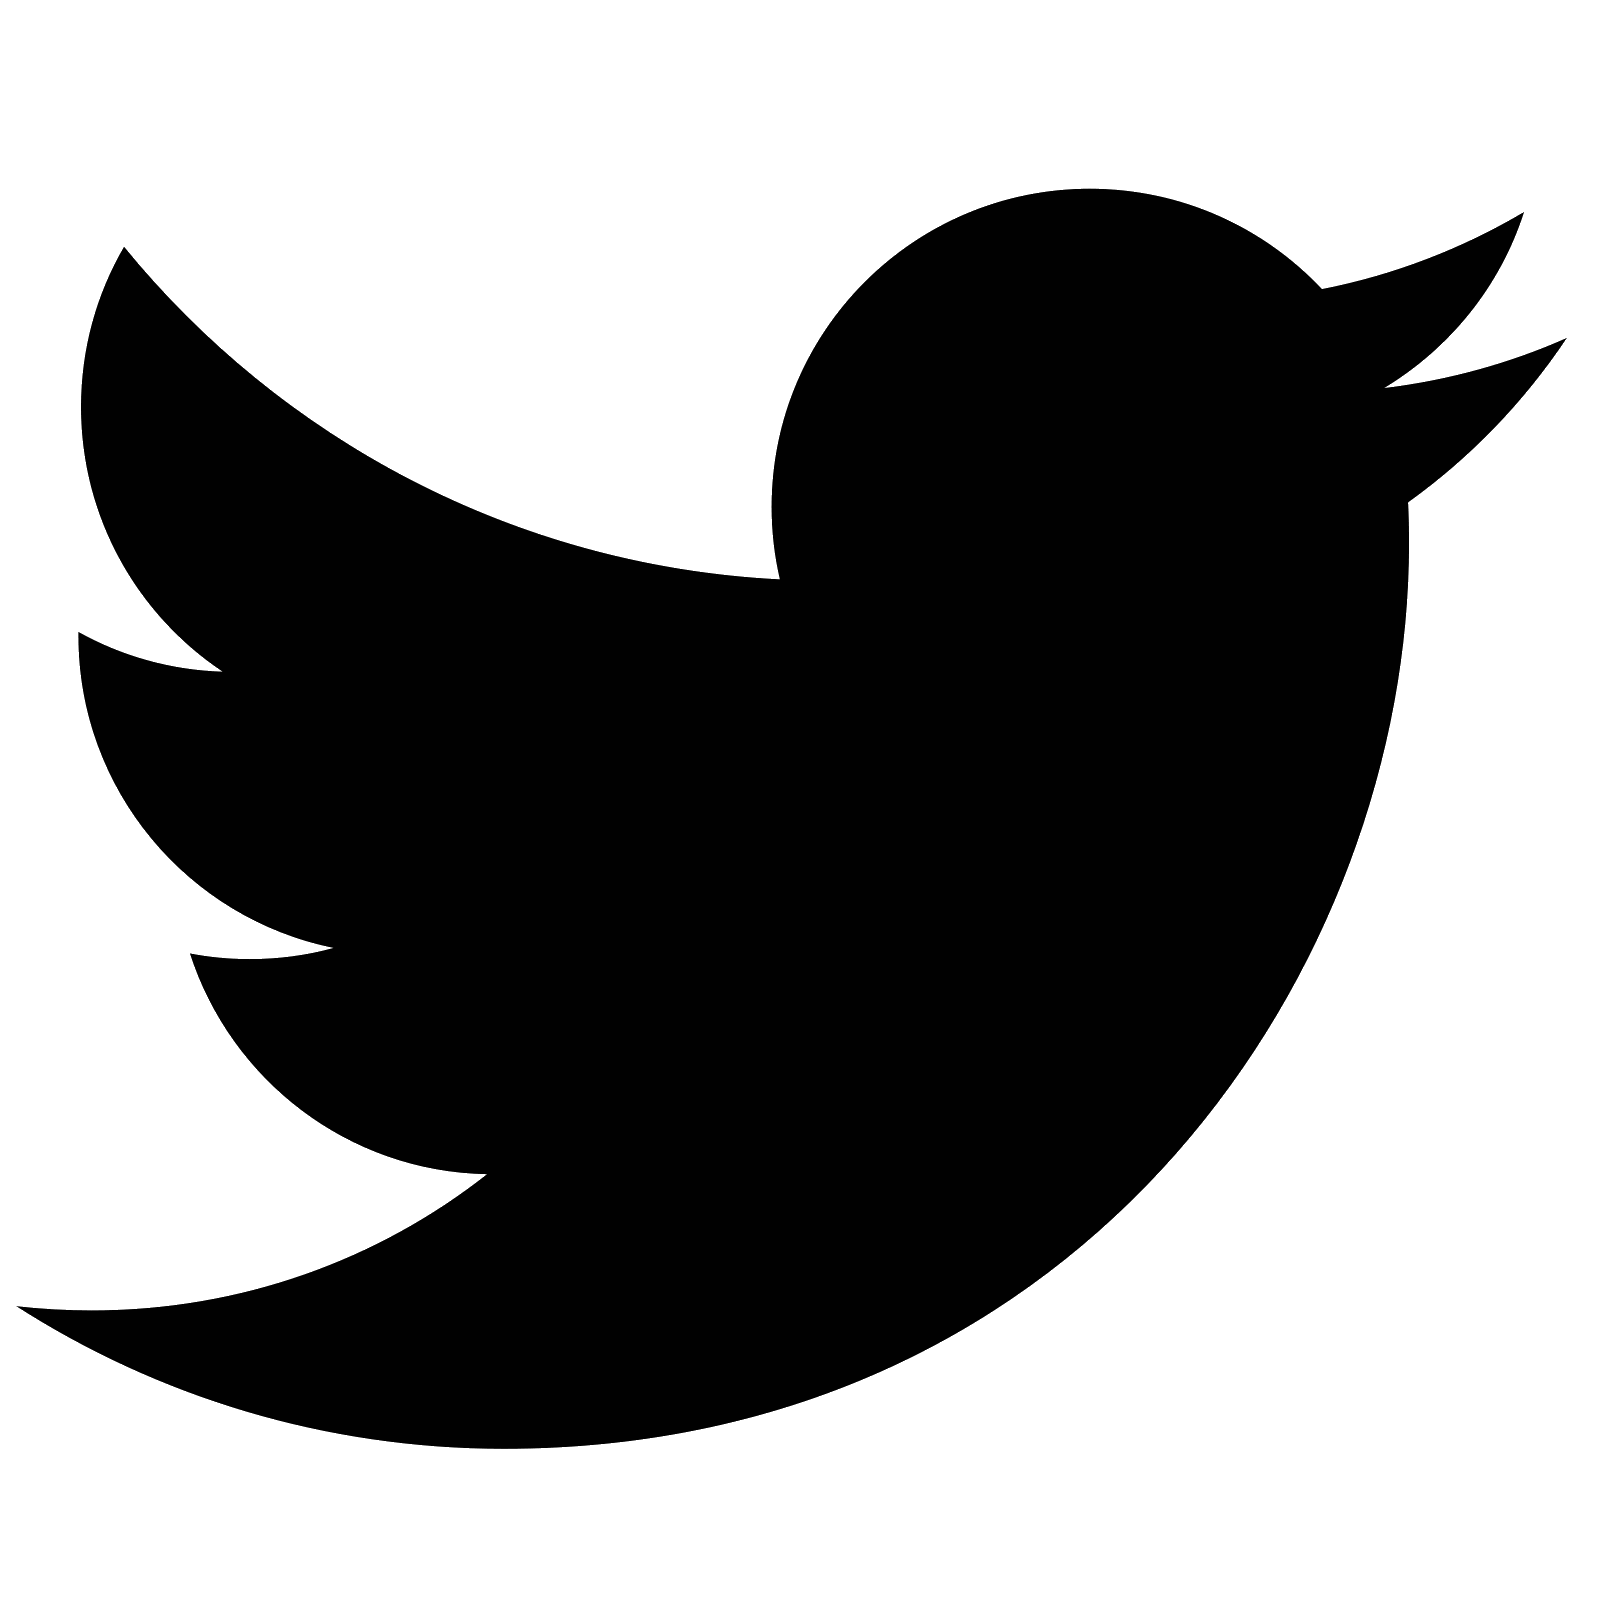
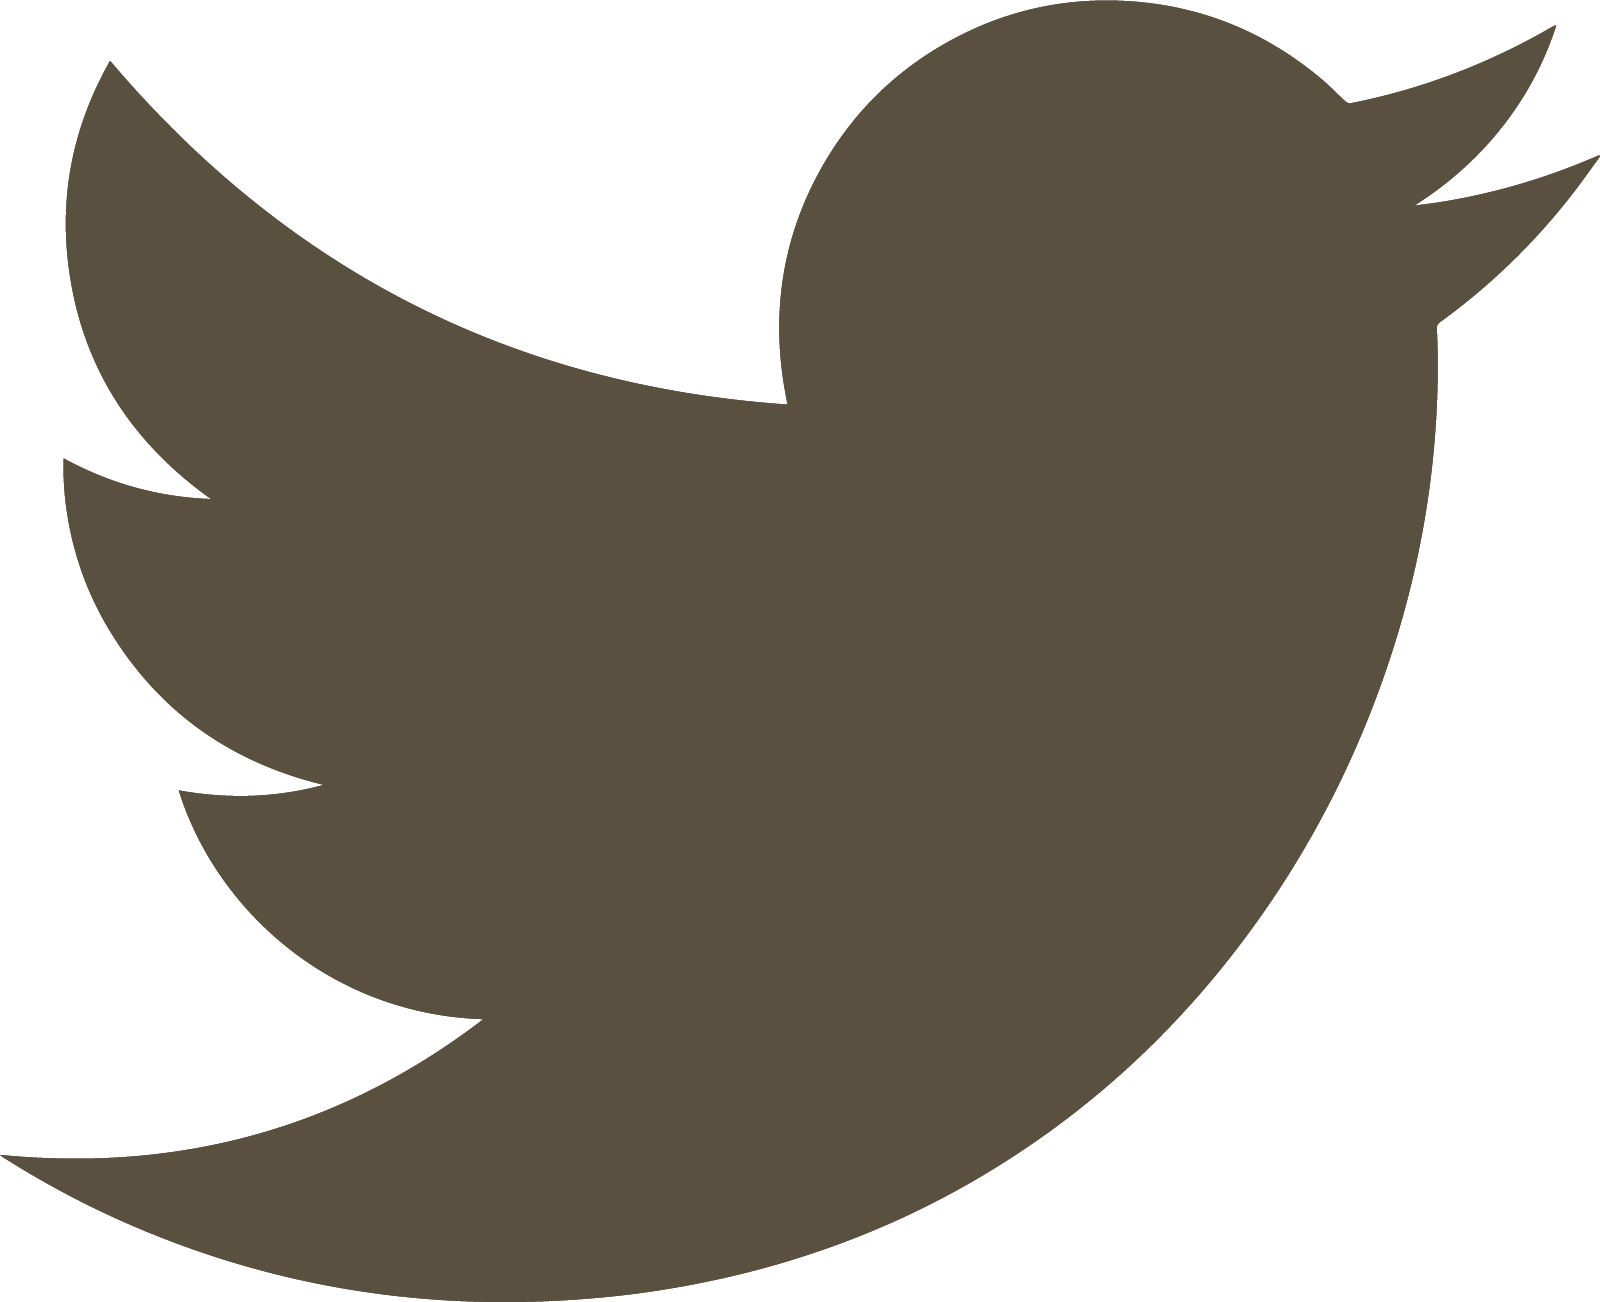
footer2

diff --git a/src/styles/_general.scss b/src/styles/_general.scss
@@ -3,14 +3,19 @@
 }
 
 body{
-background-color: hotpink ;
+background-color: #CEBDA0; ;
 color: black;
 font-family: sans-serif;
 }
 
+.menu1{
+background-color: white;
+width: 100%;
+height: 80px;
+padding: -20px;
+}
+
 img{
-width: 27px;
-height: 27px;
-
-
+width: 30px;
+height: 29px;
 }

diff --git a/src/styles/index.scss b/src/styles/index.scss
@@ -1,2 +1,4 @@
 @import '_reset.scss';
 @import '_general.scss';
+@import '_Nosotros.scss';
+

diff --git a/src/styles/_Nosotros.scss b/src/styles/_Nosotros.scss
@@ -1,0 +1,7 @@
+*{
+    box-sizing: border-box;
+}
+
+h1{
+    color: hotpink;
+  }
